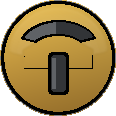
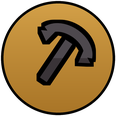
feat(consortium): generate tag and hex art via build_assets.py
Add tools/consortium-art/build_assets.py, commit its outputs, replace
fabricated placeholders, document CC BY-SA provenance, and forbid
hand-editing generated PNGs.

diff --git a/tools/consortium-art/build_assets.py b/tools/consortium-art/build_assets.py
@@ -1,0 +1,216 @@
+"""
+Consortium art generator.
+
+Builds every Consortium icon from the repository's own assets, so no binary
+files ever need to be transferred. Run from the repository root:
+
+    python3 tools/consortium-art/build_assets.py
+
+Requires Pillow only.
+
+Produces:
+    assets/tags/structure.png        116x116 RGBA
+    assets/tags/prospecting.png      116x116 RGBA
+    assets/hex_chasm.png             46x50  RGBA
+    assets/hex_crater_field.png      46x50  RGBA
+    assets/hex_highland.png          46x50  RGBA
+
+Design constraints, derived from the existing game assets:
+
+  Tags     - inscribed circle on a 116x116 canvas, corners transparent.
+             cards.less renders them at 40x40 with background-size 50px and
+             background-position -5px, so the outer 10 percent is cropped.
+             Keep all meaningful detail inside a radius of about 46px.
+  Hexes    - the ring geometry is taken directly from assets/hex_black.png,
+             so it is pixel-identical to every other space type. Only colour
+             and interior fill differ.
+
+Artwork derives from the official Terraforming Mars asset sources,
+CC BY-SA 4.0.
+"""
+
+import os
+import sys
+from collections import deque
+from PIL import Image, ImageDraw, ImageFilter
+
+ROOT = os.path.abspath(os.path.join(os.path.dirname(__file__), '..', '..'))
+HEX_SRC = os.path.join(ROOT, 'assets', 'hex_black.png')
+TAG_DIR = os.path.join(ROOT, 'assets', 'tags')
+ASSET_DIR = os.path.join(ROOT, 'assets')
+
+S, SS = 116, 8
+W = S * SS
+R = 57.0 * SS
+CX = CY = W / 2
+
+
+# --------------------------------------------------------------------- tags
+
+def _lerp(a, b, t):
+    return tuple(int(round(a[i] + (b[i] - a[i]) * t)) for i in range(3))
+
+
+def _plate(base, top):
+    img = Image.new('RGBA', (W, W), (0, 0, 0, 0))
+    grad = Image.new('RGBA', (W, W), (0, 0, 0, 255))
+    gd = ImageDraw.Draw(grad)
+    for y in range(W):
+        gd.line([(0, y), (W, y)], fill=_lerp(top, base, (y / W) ** 0.85) + (255,))
+    mask = Image.new('L', (W, W), 0)
+    ImageDraw.Draw(mask).ellipse([CX - R, CY - R, CX + R, CY + R], fill=255)
+    img.paste(grad, (0, 0), mask)
+
+    rim = Image.new('L', (W, W), 0)
+    ImageDraw.Draw(rim).ellipse([CX - R, CY - R, CX + R, CY + R],
+                                outline=255, width=int(2.6 * SS))
+    img.paste(Image.new('RGBA', (W, W), (0, 0, 0, 255)), (0, 0), rim)
+    return img
+
+
+def _apply(img, glyph_mask, rgb, outline_px=3.4, highlight=None):
+    grown = glyph_mask.filter(ImageFilter.MaxFilter(int(outline_px * SS) * 2 + 1))
+    img.paste(Image.new('RGBA', (W, W), (0, 0, 0, 255)), (0, 0), grown)
+    body = Image.new('RGBA', (W, W), rgb + (255,))
+    if highlight:
+        hi = Image.new('RGBA', (W, W), (0, 0, 0, 0))
+        ImageDraw.Draw(hi).rectangle([0, 0, W, W / 2], fill=highlight + (255,))
+        body = Image.blend(body, Image.alpha_composite(body, hi), 0.22)
+    img.paste(body, (0, 0), glyph_mask)
+    return img
+
+
+def _u(v):
+    return CX + v * R
+
+
+def _arch():
+    m = Image.new('L', (W, W), 0)
+    d = ImageDraw.Draw(m)
+    ox, bot, spring, rad = 0.44, 0.44, 0.02, 0.44
+    d.rectangle([_u(-ox), _u(spring), _u(ox), _u(bot)], fill=255)
+    d.pieslice([_u(-rad), _u(spring - rad), _u(rad), _u(spring + rad)], 180, 360, fill=255)
+    ix = irad = 0.21
+    d.rectangle([_u(-ix), _u(spring), _u(ix), _u(bot) + 2 * SS], fill=0)
+    d.pieslice([_u(-irad), _u(spring - irad), _u(irad), _u(spring + irad)], 180, 360, fill=0)
+    return m
+
+
+def _keystone():
+    m = Image.new('L', (W, W), 0)
+    ImageDraw.Draw(m).polygon(
+        [(_u(-0.115), _u(-0.40)), (_u(0.115), _u(-0.40)),
+         (_u(0.085), _u(-0.16)), (_u(-0.085), _u(-0.16))], fill=255)
+    return m
+
+
+def _pick():
+    m = Image.new('L', (W, W), 0)
+    d = ImageDraw.Draw(m)
+    hw = 0.072
+    d.polygon([(_u(-hw), _u(-0.34)), (_u(hw), _u(-0.34)),
+               (_u(hw), _u(0.46)), (_u(-hw), _u(0.46))], fill=255)
+    d.arc([_u(-0.52), _u(-0.60), _u(0.52), _u(0.16)], 196, 344,
+          fill=255, width=int(0.155 * R))
+    d.polygon([(_u(-0.52), _u(-0.24)), (_u(-0.30), _u(-0.36)), (_u(-0.34), _u(-0.13))], fill=255)
+    d.polygon([(_u(0.52), _u(-0.24)), (_u(0.30), _u(-0.36)), (_u(0.34), _u(-0.13))], fill=255)
+    return m.rotate(-34, resample=Image.BICUBIC, center=(CX, CY))
+
+
+def build_tag(path, base, top, parts):
+    img = _plate(base, top)
+    for mask, rgb, outline, hi in parts:
+        img = _apply(img, mask, rgb, outline, hi)
+    circle = Image.new('L', (W, W), 0)
+    ImageDraw.Draw(circle).ellipse([CX - R, CY - R, CX + R, CY + R], fill=255)
+    out = Image.new('RGBA', (W, W), (0, 0, 0, 0))
+    out.paste(img, (0, 0), circle)
+    out.resize((S, S), Image.LANCZOS).save(path)
+
+
+# -------------------------------------------------------------------- hexes
+
+def _interior(ring):
+    w, h = ring.size
+    m = Image.new('L', (w, h), 0)
+    rp, mp = ring.load(), m.load()
+    q = deque([(w // 2, h // 2)])
+    seen = {(w // 2, h // 2)}
+    while q:
+        x, y = q.popleft()
+        if not (0 <= x < w and 0 <= y < h) or rp[x, y] > 60:
+            continue
+        mp[x, y] = 255
+        for dx, dy in ((1, 0), (-1, 0), (0, 1), (0, -1)):
+            n = (x + dx, y + dy)
+            if n not in seen:
+                seen.add(n)
+                q.append(n)
+    return m
+
+
+def build_hex(path, ring, interior, rgb, ring_alpha, fill_rgb=None,
+              fill_alpha=0, motif=None):
+    w, h = ring.size
+    img = Image.new('RGBA', (w, h), (0, 0, 0, 0))
+    if fill_rgb:
+        img.paste(Image.new('RGBA', (w, h), fill_rgb + (fill_alpha,)), (0, 0), interior)
+    if motif:
+        motif(img)
+    img.paste(Image.new('RGBA', (w, h), rgb + (255,)), (0, 0),
+              ring.point(lambda v: int(v * ring_alpha / 255)))
+    img.save(path)
+
+
+def _craters(img):
+    d = ImageDraw.Draw(img)
+    for cx, cy, r in ((17, 21, 5), (28, 28, 3.5), (22, 34, 2.5)):
+        d.ellipse([cx - r, cy - r, cx + r, cy + r],
+                  outline=(196, 210, 224, 190), width=2)
+
+
+def _contours(img):
+    d = ImageDraw.Draw(img)
+    for w, y in ((13, 20), (9, 26), (5, 32)):
+        d.arc([23 - w, y - 5, 23 + w, y + 5], 200, 340,
+              fill=(214, 186, 138, 185), width=2)
+
+
+# --------------------------------------------------------------------- main
+
+def main():
+    if not os.path.exists(HEX_SRC):
+        sys.exit(f'missing {HEX_SRC} — run from the repository root')
+    os.makedirs(TAG_DIR, exist_ok=True)
+
+    build_tag(os.path.join(TAG_DIR, 'structure.png'),
+              (74, 104, 122), (128, 158, 174),
+              [(_arch(), (226, 231, 234), 3.4, (255, 255, 255)),
+               (_keystone(), (243, 226, 178), 3.0, None)])
+
+    build_tag(os.path.join(TAG_DIR, 'prospecting.png'),
+              (168, 116, 38), (214, 163, 74),
+              [(_pick(), (58, 52, 56), 3.4, (150, 150, 160))])
+
+    ring = Image.open(HEX_SRC).convert('RGBA').split()[3]
+    interior = _interior(ring)
+
+    build_hex(os.path.join(ASSET_DIR, 'hex_chasm.png'), ring, interior,
+              (38, 42, 54), 235, (14, 16, 24), 120)
+    build_hex(os.path.join(ASSET_DIR, 'hex_crater_field.png'), ring, interior,
+              (176, 196, 214), 215, (120, 150, 175), 48, _craters)
+    build_hex(os.path.join(ASSET_DIR, 'hex_highland.png'), ring, interior,
+              (201, 162, 107), 215, (190, 150, 95), 42, _contours)
+
+    print('generated:')
+    for p in ('assets/tags/structure.png', 'assets/tags/prospecting.png',
+              'assets/hex_chasm.png', 'assets/hex_crater_field.png',
+              'assets/hex_highland.png'):
+        f = os.path.join(ROOT, p)
+        im = Image.open(f)
+        print(f'  {p:34} {im.size[0]}x{im.size[1]} {im.mode} '
+              f'{os.path.getsize(f)} bytes')
+
+
+if __name__ == '__main__':
+    main()

diff --git a/AGENTS.md b/AGENTS.md
@@ -4,12 +4,14 @@
 
 ### Artwork
 
-Never create, redraw, or reconstruct binary art assets (icons, tiles, board
-hexes, tag PNGs, expansion icons, etc.). Real artwork is authored outside the
-agent session and arrives via git commits (for example `art/consortium-icons`).
+Never create, redraw, or reconstruct binary art assets by hand. All Consortium
+artwork is generated by `tools/consortium-art/build_assets.py` (Pillow). If
+artwork looks wrong, change the generator — never hand-edit or approximate an
+image from screenshots or descriptions.
 
-If expected art files or an art branch are missing, **stop and ask**. Do not
-approximate from screenshots or descriptions.
+```bash
+python3 tools/consortium-art/build_assets.py
+```
 
 Standard commands for this repo (lint, test, build, dev) are documented in
 `CLAUDE.md` and `.cursor/rules/consortium.mdc`.

diff --git a/README.md b/README.md
@@ -146,7 +146,7 @@ Russian Prototype font: https://fonts-online.ru/fonts/prototype-rus-daymarius (c
 Polish Prototype font: https://www.gry-planszowe.pl/viewtopic.php?p=1489006#p1489006 (copyright 2001, free for personal use)
 Baord Game Icons: http://www.kenney.nl/  (Creative Commons Zero, CC0)
 
-Consortium structure and prospecting tag icons derive from the official tag
-palette and construction in
-[terraforming-mars/terraforming-mars-assets-sources](https://github.com/terraforming-mars/terraforming-mars-assets-sources)
-(CC BY-SA 4.0).
+Consortium artwork is generated by tools/consortium-art/build_assets.py and
+derives from the Terraforming Mars open-source asset sources,
+https://github.com/terraforming-mars/terraforming-mars-assets-sources,
+licensed CC BY-SA 4.0.
